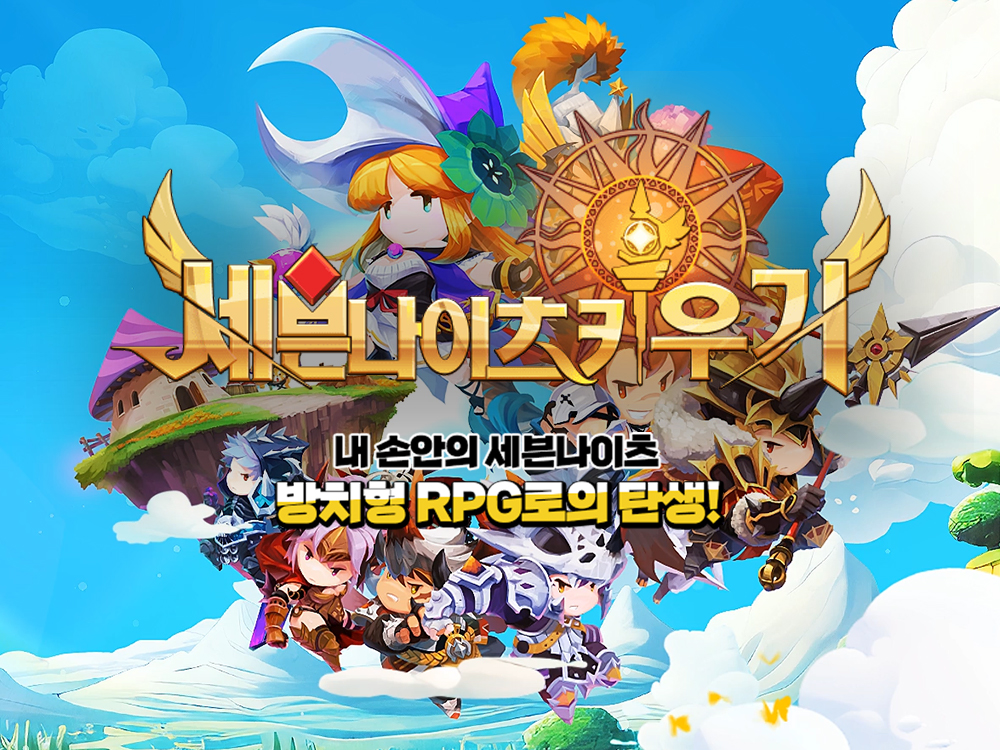
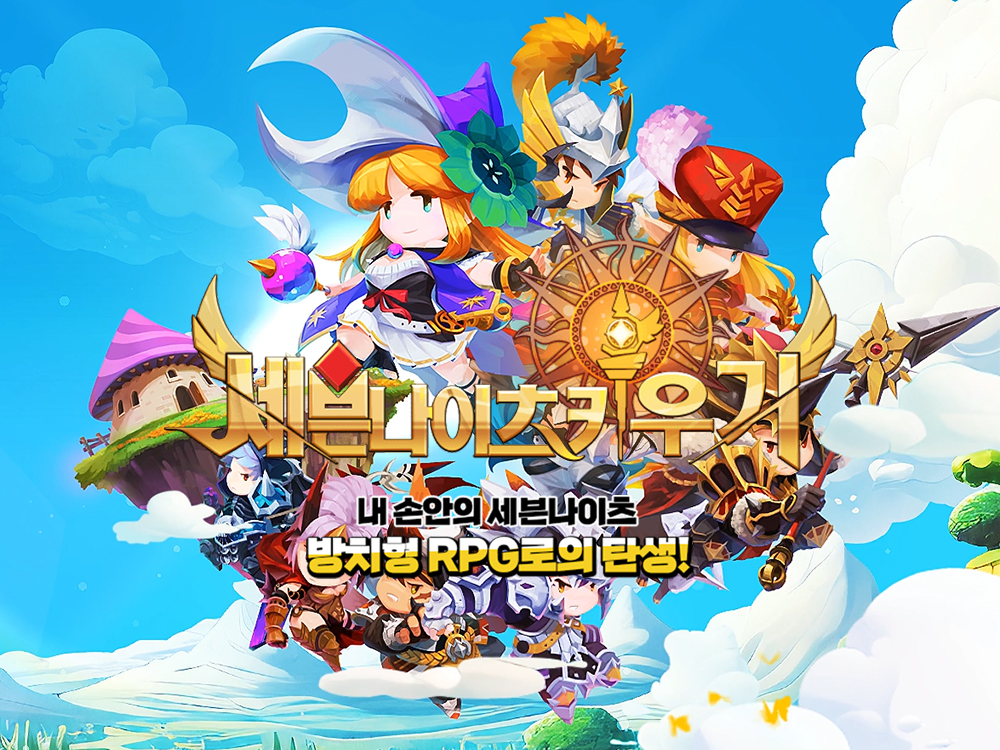
헤더 수정 및 배너 레이아웃

diff --git a/main.html b/main.html
@@ -13,9 +13,9 @@
 <body>
 <!-- 헤더 -->
     <header id="header">
-            <button class="search"><img src="img/search.png" alt="게임검색"></button>
+            <button class="search"><img src="img/search_w.png" alt="게임검색"></button>
             <span></span>
-            <div id="logo"><h1><a href="#"><img src="img/netmarble_positive.png" alt="로고"></a></h1></div>
+            <div id="logo"><h1><a href="#"><img src="img/netmarble_w.png" alt="로고"></a></h1></div>
             <button class="ham_btn" alt="메뉴버튼">
                 <span></span>
                 <span></span>
@@ -94,23 +94,76 @@
     </div> <!-- hammenu end -->
 
 <!-- 배너 -->
-    <div id="banner" class="cf">
-        <ul>
-            <li><a href="#"><img src="img/banner1.jpg" alt="배너1_세븐나이츠 키우기"> </a></li>
-            <li><a href="#"><img src="img/banner2.jpg" alt="배너2_에이지오브타이탄"> </a></li>
-            <li><a href="#"><img src="img/banner3.jpg" alt="배너3_신의탑:새로운세계"> </a></li>
-            <li><a href="#"><img src="img/banner4.jpg" alt="배너4_제2의 나라"> </a></li>
-            <li><a href="#"><img src="img/banner5.jpg" alt="배너5_나 혼자만 레벨업:Arise"> </a></li>            
-        </ul>
+    <div id="banner_wrap">
+        <div id="banner" class="cf">
+            <ul>
+                <li><a href="#"><img src="img/banner1.jpg" alt="배너1_세븐나이츠 키우기"> </a></li>
+                <li><a href="#"><img src="img/banner2.jpg" alt="배너2_에이지오브타이탄"> </a></li>
+                <li><a href="#"><img src="img/banner3.jpg" alt="배너3_신의탑:새로운세계"> </a></li>
+                <li><a href="#"><img src="img/banner4.jpg" alt="배너4_제2의 나라"> </a></li>
+                <li><a href="#"><img src="img/banner5.jpg" alt="배너5_나 혼자만 레벨업:Arise"> </a></li>            
+            </ul>
+        </div>
+        <div id="ban_idc">
+            <ul class="idc">
+                <li id="btn0"><a href="img/banner1.jpg"><img src="img/state_over.png" alt="인디케이터활성화"></a></li>
+                <li id="btn1"><a href="img/banner2.jpg"><img src="img/state_out.png" alt="인디케이터활성화"></a></li>
+                <li id="btn2"><a href="img/banner3.jpg"><img src="img/state_out.png" alt="인디케이터활성화"></a></li>
+                <li id="btn3"><a href="img/banner4.jpg"><img src="img/state_out.png" alt="인디케이터활성화"></a></li>
+                <li id="btn4"><a href="img/banner5.jpg"><img src="img/state_out.png" alt="인디케이터활성화"></a></li>
+            </ul>
+            
+        </div>
+        <div id="arrow">
+            <a class="prev" href="#"><img src="img/ban_prev.png" alt="이전 배너"></a>
+            <a class="next" href="#"><img src="img/ban_next.png" alt="다음 배너"></a>
+        </div>
     </div>
-    <div id="ban_idc">
-        <ul class="idc">
-            <li id="btn0"><a href="img/banner1.jpg"><img src="img/state_over.png" alt="인디케이터활성화"></a></li>
-            <li id="btn1"><a href="img/banner2.jpg"><img src="img/state_out.png" alt="인디케이터활성화"></a></li>
-            <li id="btn2"><a href="img/banner3.jpg"><img src="img/state_out.png" alt="인디케이터활성화"></a></li>
-            <li id="btn3"><a href="img/banner4.jpg"><img src="img/state_out.png" alt="인디케이터활성화"></a></li>
-            <li id="btn4"><a href="img/banner5.jpg"><img src="img/state_out.png" alt="인디케이터활성화"></a></li>
+
+<!-- 이벤트&뉴스 -->
+    <div id="Event_new">
+        <ul>
+            <li>Event & News</li>
+            <li><a href="#">더 보기</a></li>
+            <li><a href="#"><img src="img/more.png" alt="이벤트 및 뉴스 더 보기"></a></li>
         </ul>
+        <ul class="page1">
+            <li id="event_SevenKnights">
+                <a class="event_title" href="#">G마켓 X 세븐나이츠 키우기<br>
+                    그랜드 론칭 기념 100원 딜!</a><br>
+                <a class="game_title" href="#">세븐나이츠 키우기</a>
+            </li>
+            <li id="event_grandcross">
+                <a class="event_title" href="#">[Mr. 보니언 노트 #5]<br>
+                    신규 콘텐츠 '크로스 디멘션'</a><br>
+                <a class="game_title" href="#">그랜드크로스: 에이지 오브 타이탄</a>
+            </li>
+        </ul>
+        <ul class="page2">
+            <li id="event_TowerOfGod">
+                <a class="event_title" href="#"> <신의 탑: 새로운 세계><br>
+                    3rd 개발자 노트</a><br>
+                <a class="game_title" href="#">신의 탑: 새로운 세계</a>
+            </li>
+            <li id="event_SevenSins">
+                <a class="event_title" href="#">일곱 개의 대죄 X 진격의 거인<br>
+                    콜라보레이션 리턴즈!</a><br>
+                <a class="game_title" href="#">일곱 개의 대죄</a>
+            </li>
+        </ul>
+        <ul class="page3">
+            <li id="event_2ndKingdom">
+                <a class="event_title" href="#">크로스필드 및 신규 지역<br>          
+                    대응 예정 사항 안내</a><br>
+                <a class="game_title" href="#">제2의 나라: Cross World</a>
+            </li>
+            <li id="event_lvUpAlone">
+                <a class="event_title" href="#">[나 혼자만 레벨업:ARISE]<br>
+                    1차 메인 PV 공개!</a><br>
+                <a class="game_title" href="#">나 혼자만 레벨업: ARISE</a>
+            </li>
+        </ul>
+        
     </div>
 </body>
 </html>

diff --git a/css/main.css b/css/main.css
@@ -46,10 +46,10 @@ body {
     top: 0;
     width: 100%;
     height: 70px;
-    background-color: rgba(255,226,0,1);
+    background-color: rgba(255,226,0,0);
     z-index: 100;
     display: flex;
-}
+} /* 스크롤 시 색상 변경 시키기  */
 .search {
     width: 50px;
     height: 70px;
@@ -94,7 +94,8 @@ body {
     width: 30px;
     height: 4px;
     border-radius: 10px;
-    background: #5C3722;
+    /* background: #5C3722; */
+    background: #fff;
     opacity: 1;
     transform: rotate(0deg);
 }
@@ -347,14 +348,20 @@ body {
 
 
 /* 배너 */
+#banner_wrap {
+    width:100%;
+    height: 75%;
+    position: relative;
+}
 #banner {
     width:100%;
+    height: 75%;
     overflow:hidden;
     z-index: 0;
 }
 #banner ul{
     position:relative; 
-    left:0; 
+    left:0;
     /* left: n*-100% -> 이미지 변경 */
     width:500%;	
 }
@@ -365,9 +372,42 @@ body {
 #banner ul li img{
     width:100%;
 }
-.idc {
+#ban_idc {
     position: absolute;
-
+    top: 90%;
+    left: 50%;
+    transform: translateX(-50%);
+    z-index: 2;
+}
+.idc {
     display: flex;
-    margin: 0 auto;
+}
+.idc li {
+    margin-left: 10px;
+}
+.idc li:first-child {
+    margin-left: 0px;
+}
+#banner_wrap::after {
+    width: 100%;
+    height: 99%;
+    position: absolute;
+    left: 0; top: 0; content: "";
+    background: linear-gradient(to bottom, 
+    rgba(0,0,0,0.7)0,
+    rgba(0,0,0,0)30%,
+    rgba(0,0,0,0)70%,
+    rgba(0,0,0,0.7)100%)
+}
+#arrow .prev {
+    position: absolute;
+    left: 2%;
+    top: 50%;
+    transform: translateY(-50%);
+}
+#arrow .next {
+    position: absolute;
+    right: 2%;
+    top: 50%;
+    transform: translateY(-50%);
 }
